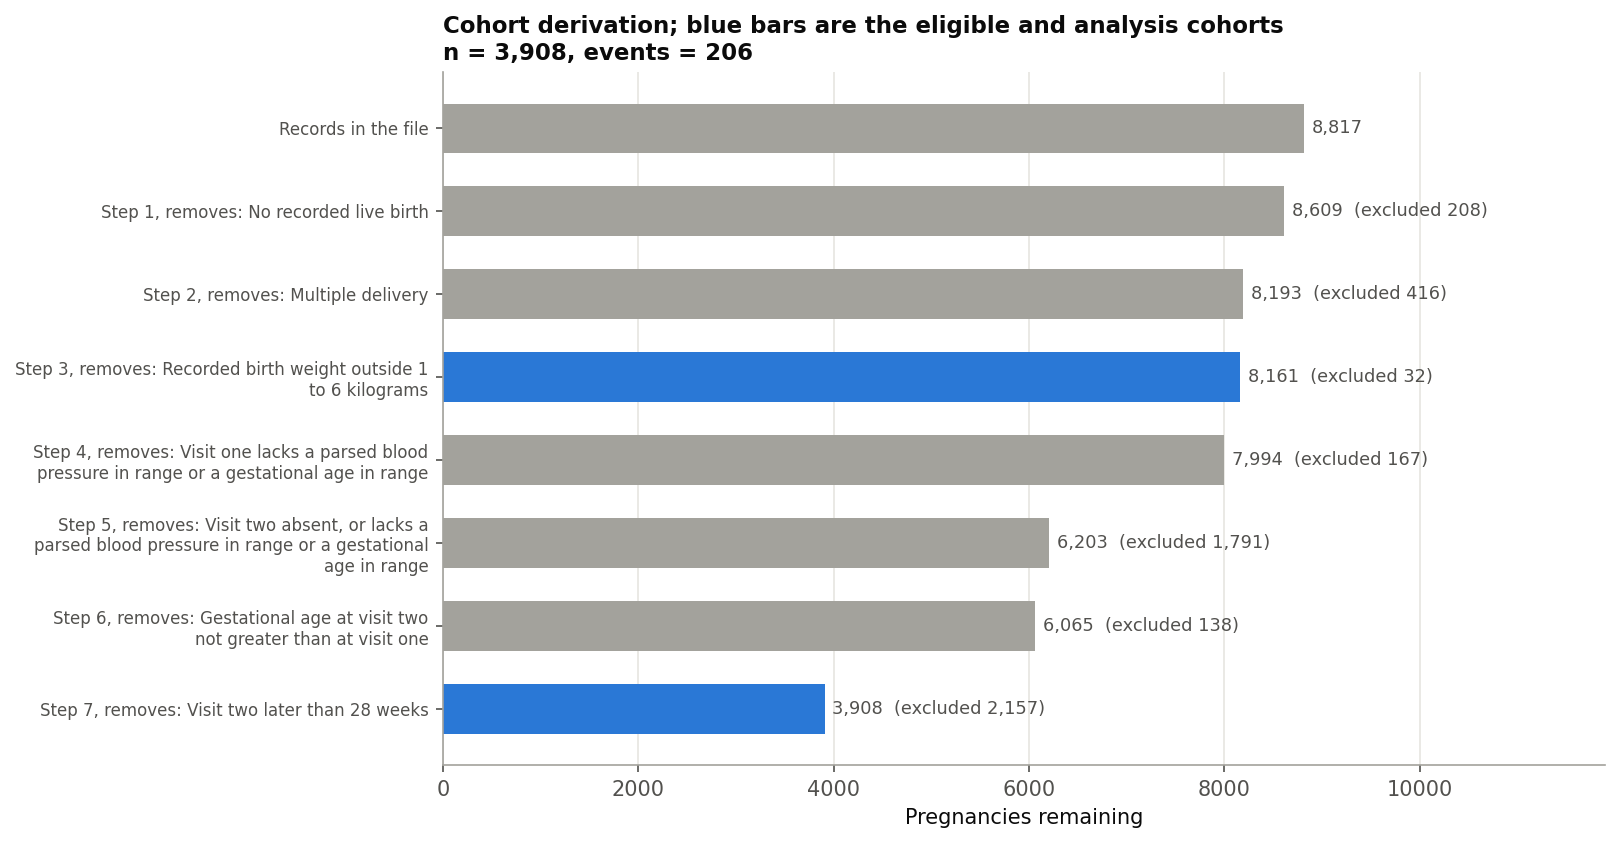
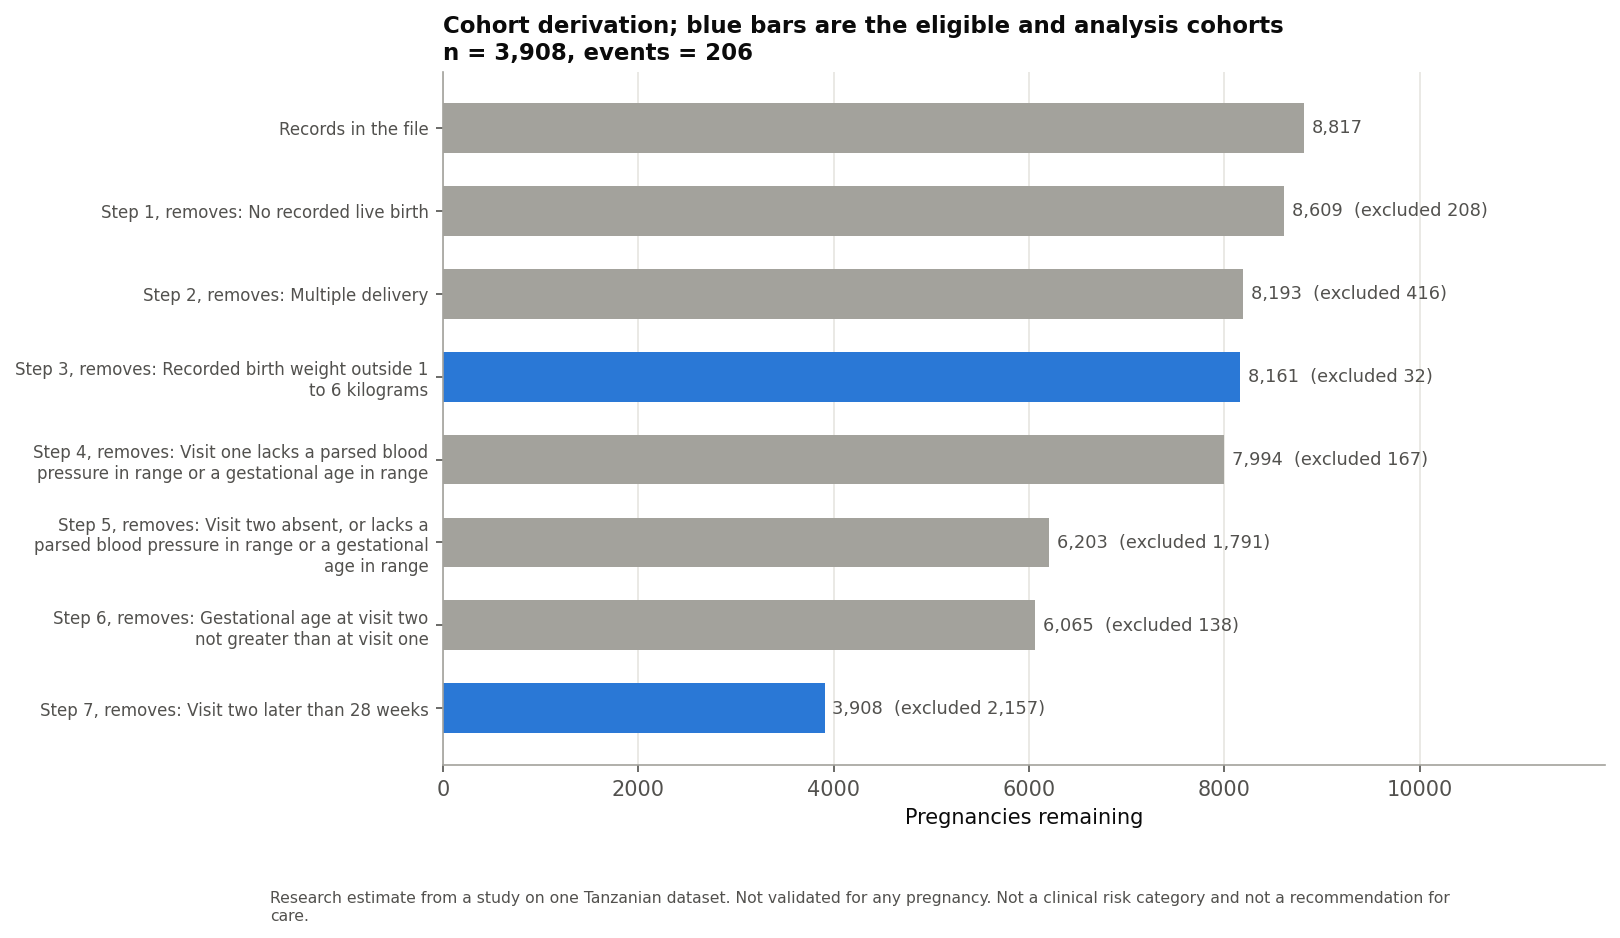
Add the fixed limitation line as a footer to every figure (R7)
The limitation text now has one definition in antenatal.config, imported by
the application settings and applied once in reporting.style.save, so every
figure written through it carries the same line. A draw-figures command
redraws all sixteen figures from the saved tables without refitting. Also
fixes two layout overlaps (learning curve title and axis label, panel counts
over whiskers) and refreshes the README tree for the learning curve
predictions file added in the previous commit.

diff --git a/src/antenatal/reporting/redraw.py b/src/antenatal/reporting/redraw.py
@@ -1,0 +1,79 @@
+"""The ``draw-figures`` command: redraw every figure from the saved tables.
+
+No model is fitted and no result is recomputed. The descriptive figures need
+the development records, which are rebuilt from the verified data file and
+the sealed partition; every other figure reads a table in ``outputs/tables``.
+"""
+
+from __future__ import annotations
+
+from pathlib import Path
+
+import pandas as pd
+
+from antenatal.paths import ProjectPaths
+from antenatal.reporting import extension_figures, figures, result_figures
+from antenatal.study import load_context
+
+
+def _table(paths: ProjectPaths, name: str) -> pd.DataFrame:
+    return pd.read_csv(paths.tables / f"{name}.csv")
+
+
+def _descriptive(paths: ProjectPaths) -> list[Path]:
+    context = load_context(paths)
+    development = context.development
+    n, events = len(development), int(development["lbw"].sum())
+    return [
+        figures.cohort_flow(_table(paths, "cohort_flow"), paths.figures),
+        figures.outcome_prevalence(development, paths.figures),
+        figures.measurement_distributions(development, paths.figures),
+        figures.missingness(_table(paths, "missingness"), n, events, paths.figures),
+        figures.availability_screen(_table(paths, "availability_screen"), n, events, paths.figures),
+    ]
+
+
+def _results(paths: ProjectPaths) -> list[Path]:
+    comparisons = _table(paths, "feature_set_comparisons")
+    first = comparisons.iloc[0]
+    n, events = int(first["n"]), int(first["events"])
+    curves = _table(paths, "calibration_curves")
+    calibration = {s: curves[curves["feature_set"] == s] for s in ("A", "B", "C")}
+    out = paths.figures
+    return [
+        result_figures.model_comparison(_table(paths, "model_performance"), events / n, out),
+        result_figures.feature_set_differences(comparisons, out),
+        result_figures.calibration(calibration, n, events, out),
+        result_figures.decision_curve(_table(paths, "decision_curve"), n, events, out),
+        result_figures.detectable_difference(comparisons, out),
+        result_figures.sensitivity(_table(paths, "sensitivity_analyses"), out),
+    ]
+
+
+def _extensions(paths: ProjectPaths) -> list[Path]:
+    rates = _table(paths, "missingness_outcome_rates")
+    n = int(rates["recorded_n"].iloc[0] + rates["missing_n"].iloc[0])
+    events = int(rates["recorded_events"].iloc[0] + rates["missing_events"].iloc[0])
+    out = paths.figures
+    return [
+        extension_figures.learning_curve(_table(paths, "learning_curve"), n, events, out),
+        extension_figures.forest(
+            _table(paths, "ablation"),
+            "Set C minus set C without one visit one measurement",
+            "fig13_ablation",
+            out,
+        ),
+        extension_figures.forest(
+            _table(paths, "parameterisation"),
+            "Ways of entering the first visit",
+            "fig14_parameterisation",
+            out,
+        ),
+        extension_figures.missingness_rates(rates, n, events, out),
+        extension_figures.retrieval(_table(paths, "retrieval_at_budget"), out),
+    ]
+
+
+def redraw_all(paths: ProjectPaths) -> list[Path]:
+    """Redraw every figure and return their paths."""
+    return _descriptive(paths) + _results(paths) + _extensions(paths)

diff --git a/tests/unit/test_extensions.py b/tests/unit/test_extensions.py
@@ -146,3 +146,44 @@ def test_fold_level_summary_carries_bootstrap_intervals(root):
         assert (
             (table[f"{metric}_low"] <= table[metric]) & (table[metric] <= table[f"{metric}_high"])
         ).all()
+
+
+def test_every_figure_carries_the_limitation_footer(tmp_path):
+    """R7: style.save adds the fixed limitation line to every figure it writes."""
+    from antenatal.config import LIMITATION
+    from antenatal.reporting.style import plt, save
+
+    fig, ax = plt.subplots(figsize=(6, 4))
+    ax.plot([0, 1], [0, 1])
+    captured = []
+    original = fig.savefig
+    fig.savefig = lambda *a, **k: (
+        captured.extend(t.get_text() for t in fig.texts),
+        original(*a, **k),
+    )
+    save(fig, tmp_path, "probe")
+    assert (tmp_path / "probe.png").exists()
+    assert any(" ".join(text.split()) == LIMITATION for text in captured)
+
+
+def test_app_and_figures_share_one_limitation_line():
+    from antenatal.config import LIMITATION
+    from webapp.app.core import settings
+
+    assert settings.LIMITATION is LIMITATION
+
+
+def test_draw_figures_redraws_all_sixteen(root, tmp_path):
+    import shutil
+
+    from antenatal.paths import ProjectPaths
+    from antenatal.reporting.redraw import redraw_all
+
+    for folder in ("outputs/tables", "partitions"):
+        shutil.copytree(root / folder, tmp_path / folder)
+    (tmp_path / "data").mkdir()
+    (tmp_path / "data" / "maternal_dataset_csv.csv").symlink_to(
+        root / "data" / "maternal_dataset_csv.csv"
+    )
+    paths = ProjectPaths.from_root(tmp_path).ensure()
+    assert len(redraw_all(paths)) == 16

diff --git a/src/antenatal/reporting/style.py b/src/antenatal/reporting/style.py
@@ -3,17 +3,21 @@
 Colours are the first three slots of a palette validated for colour vision
 deficiency on a light surface. Text always uses the ink colours, never a series
 colour. Every figure title states the number of pregnancies and events
-(Requirement R6).
+(Requirement R6), and every saved figure carries the fixed limitation line as
+a footer (Requirement R7).
 """
 
 from __future__ import annotations
 
+import textwrap
 from pathlib import Path
 
 import matplotlib
 
 matplotlib.use("Agg")
 import matplotlib.pyplot as plt  # noqa: E402
+
+from antenatal.config import LIMITATION  # noqa: E402
 
 SERIES = {"A": "#2a78d6", "B": "#eb6834", "C": "#1baf7a"}
 ORDERED = ("#2a78d6", "#eb6834", "#1baf7a")
@@ -55,8 +59,23 @@ def count_label(n: int, events: int) -> str:
     return f"n = {n:,}, events = {events}"
 
 
+def add_limitation(fig: plt.Figure) -> None:
+    """Place the fixed limitation line under the figure, wrapped to its width."""
+    width_characters = int(fig.get_figwidth() * 15)
+    fig.text(
+        0.01,
+        -0.03,
+        textwrap.fill(LIMITATION, width_characters),
+        ha="left",
+        va="top",
+        fontsize=7.5,
+        color=INK_SECONDARY,
+    )
+
+
 def save(fig: plt.Figure, directory: Path, name: str) -> Path:
-    """Write ``fig`` as a PNG and close it."""
+    """Add the limitation footer, write ``fig`` as a PNG and close it."""
+    add_limitation(fig)
     path = Path(directory) / f"{name}.png"
     fig.savefig(path, bbox_inches="tight", facecolor=SURFACE)
     plt.close(fig)

diff --git a/src/antenatal/reporting/extension_figures.py b/src/antenatal/reporting/extension_figures.py
@@ -30,19 +30,19 @@ def learning_curve(summary: pd.DataFrame, n: int, events: int, directory: Path) 
                 label=f"Set {name}",
             )
         ax.set_xlabel("Share of each outer training fold used, percent")
-        ax.set_ylabel(f"{label}, predictions averaged over repeats")
+        ax.set_ylabel(label)
         ax.set_xticks([20, 40, 60, 80, 100])
     axes[0].axhline(events / n, color=INK_SECONDARY, linestyle="--", linewidth=1)
     axes[0].text(21, events / n, " no skill", fontsize=8, color=INK_SECONDARY, va="bottom")
     axes[1].legend(loc="lower right")
     fig.suptitle(
-        "Learning curve, logistic regression, 95 percent group bootstrap intervals\n"
-        + count_label(n, events),
+        "Learning curve, logistic regression, predictions averaged over repeats, "
+        "95 percent group bootstrap intervals\n" + count_label(n, events),
         x=0.01,
         ha="left",
         fontweight="bold",
     )
-    fig.tight_layout()
+    fig.tight_layout(rect=(0, 0, 1, 0.9))
     return save(fig, directory, "fig12_learning_curve")
 
 

diff --git a/src/antenatal/cli.py b/src/antenatal/cli.py
@@ -118,6 +118,13 @@ def technical_report(paths: ProjectPaths) -> None:
     print(f"Wrote {write_technical_report(paths)}")
 
 
+def draw_figures(paths: ProjectPaths) -> None:
+    """Redraw every figure from the saved tables, with the limitation footer."""
+    from antenatal.reporting.redraw import redraw_all
+
+    print(f"Redrew {len(redraw_all(paths))} figures")
+
+
 def _commands() -> dict[str, Callable[[ProjectPaths], None]]:
     return {
         "derive-cohort": derive_cohort,
@@ -127,6 +134,7 @@ def _commands() -> dict[str, Callable[[ProjectPaths], None]]:
         "freeze-artefact": freeze_artefact,
         "freeze-secondary-artefact": freeze_secondary_artefact,
         "summarise-results": summarise_results,
+        "draw-figures": draw_figures,
         "meeting-evidence": meeting_evidence,
         "update-readme": update_readme,
         "technical-report": technical_report,

diff --git a/src/antenatal/reporting/figures.py b/src/antenatal/reporting/figures.py
@@ -83,15 +83,9 @@ def measurement_distributions(development: pd.DataFrame, directory: Path) -> Pat
             patch.set_facecolor(colour)
         for median in parts["medians"]:
             median.set_color("#0b0b0b")
-        ax.set_title(f"{item.label} at visit two, {item.unit}", fontsize=9.5)
-        ax.text(
-            0.02,
-            0.97,
-            f"recorded for {sum(len(g) for g in groups):,}",
-            transform=ax.transAxes,
-            va="top",
-            fontsize=8,
-            color=INK_SECONDARY,
+        recorded = sum(len(g) for g in groups)
+        ax.set_title(
+            f"{item.label} at visit two, {item.unit}\nrecorded for {recorded:,}", fontsize=9.5
         )
     fig.suptitle(
         "Visit two measurements by outcome, development records ("

diff --git a/webapp/app/core/settings.py b/webapp/app/core/settings.py
@@ -6,12 +6,10 @@ import os
 from dataclasses import dataclass
 from pathlib import Path
 
+from antenatal.config import LIMITATION  # noqa: F401  one source for app and figures (R7)
+
 WEBAPP = Path(__file__).resolve().parents[2]
 
-LIMITATION = (
-    "Research estimate from a study on one Tanzanian dataset. Not validated for any pregnancy. "
-    "Not a clinical risk category and not a recommendation for care."
-)
 SYNTHETIC_BANNER = "Synthetic cases only. Do not enter any real pregnancy."
 INTERVAL_LABEL = (
     "95 percent confidence interval for the estimated probability, reflecting uncertainty in "

diff --git a/src/antenatal/config.py b/src/antenatal/config.py
@@ -72,6 +72,13 @@ SENTINEL_TOKENS: frozenset[str] = frozenset(
 )
 
 
+LIMITATION = (
+    "Research estimate from a study on one Tanzanian dataset. Not validated for any pregnancy. "
+    "Not a clinical risk category and not a recommendation for care."
+)
+"""The fixed limitation line shown on every interface screen and every figure (R7)."""
+
+
 @dataclass(frozen=True)
 class StudySpec:
     """Frozen specification of the study (Table 3.4 and Sections 3.3.2 to 3.3.9)."""

diff --git a/README.md b/README.md
@@ -135,6 +135,7 @@ The data file is included under its CC BY 4.0 licence. See [`data/README.md`](da
 ├── outputs
 │   ├── cohort_manifest.csv
 │   ├── figures
+│   ├── learning_curve_predictions.parquet
 │   ├── manifest.json
 │   ├── oof_extensions.parquet
 │   ├── oof_predictions.parquet
